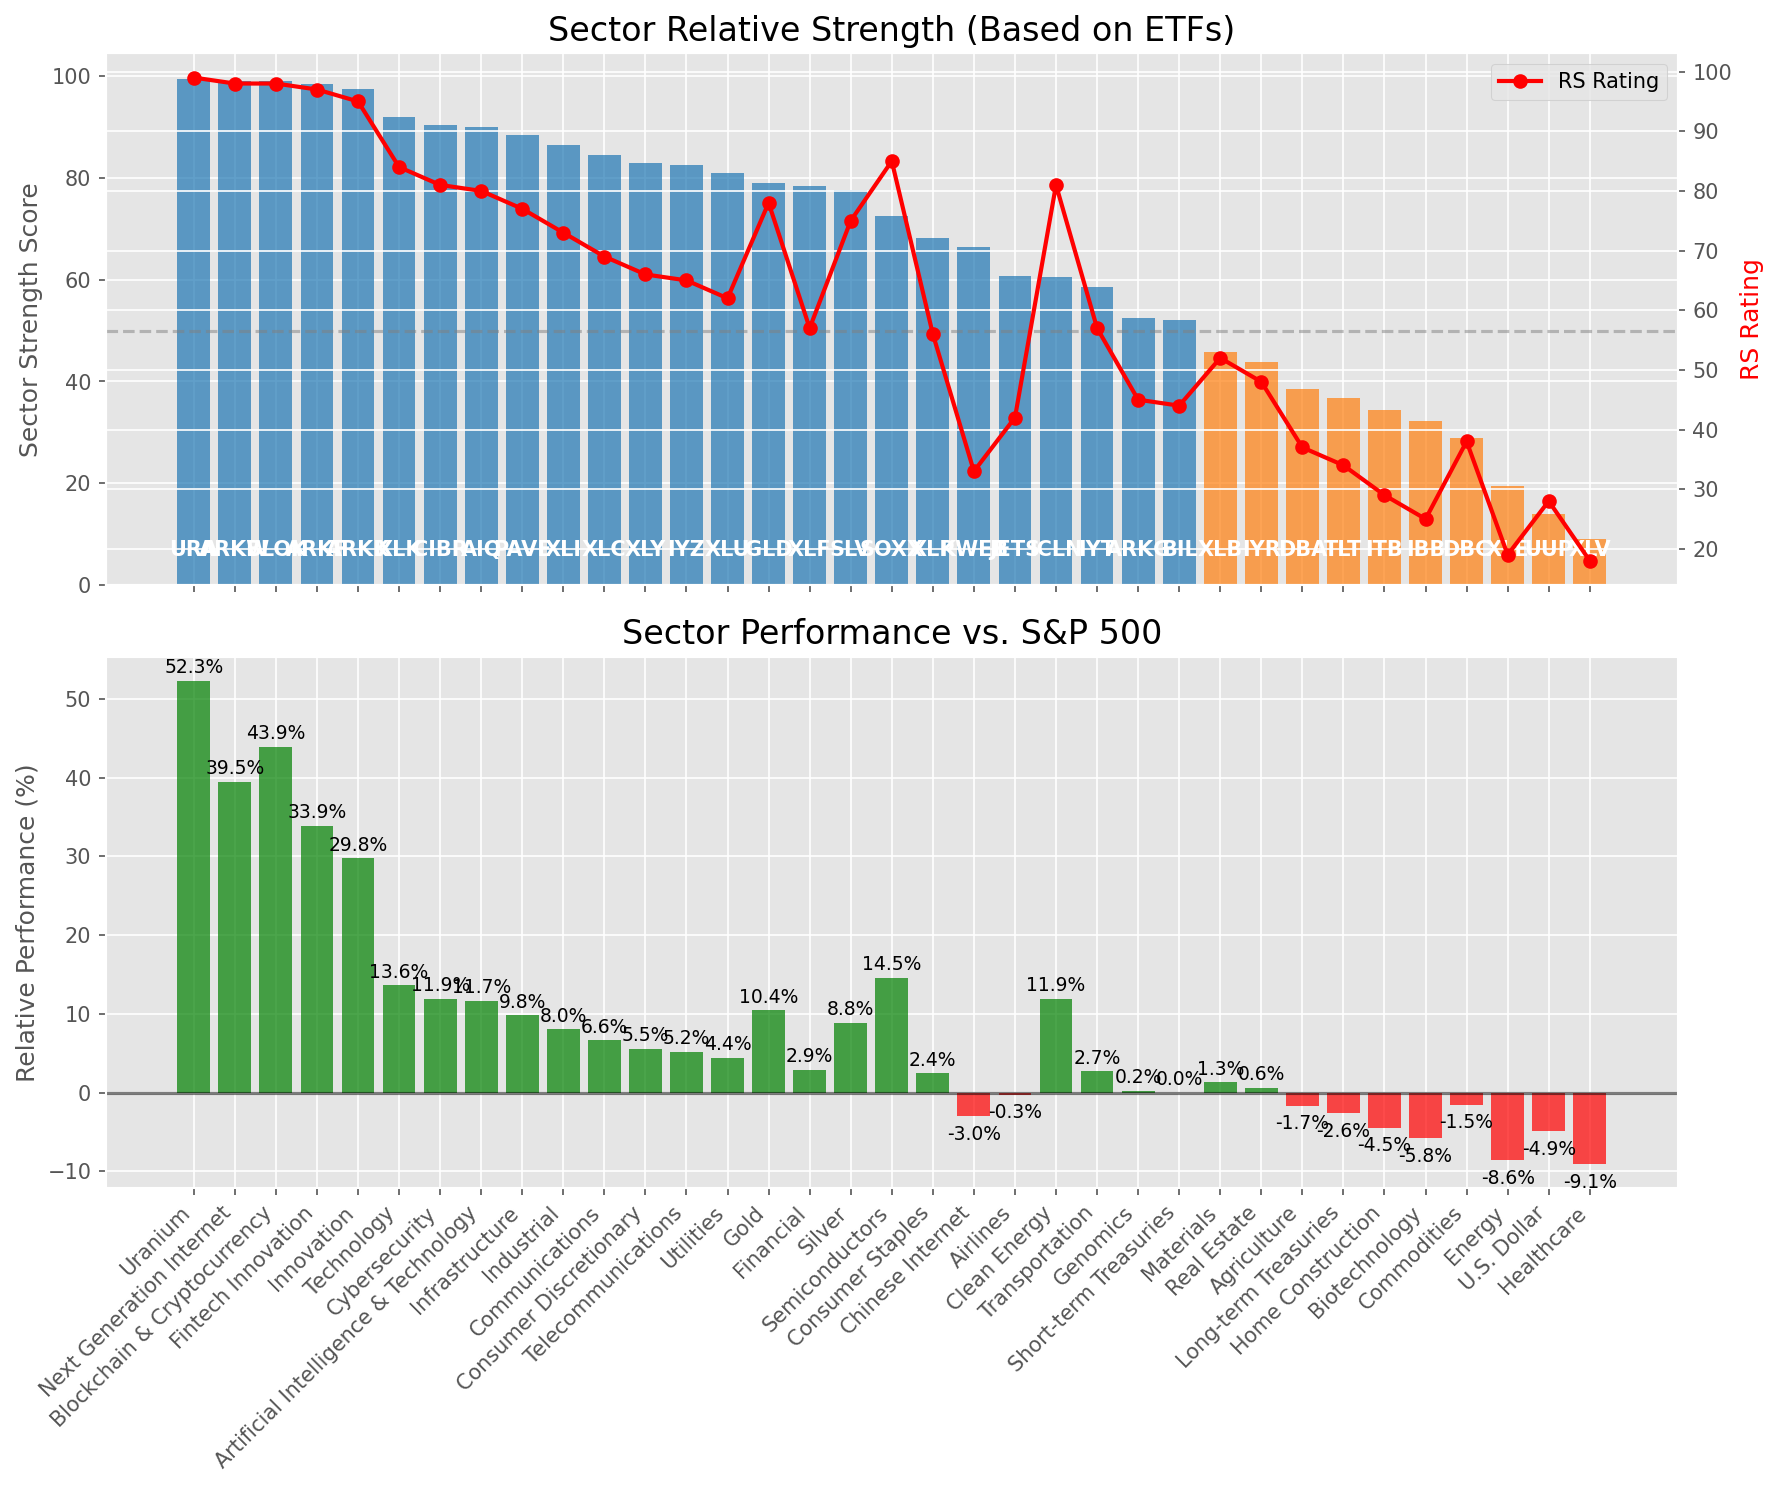
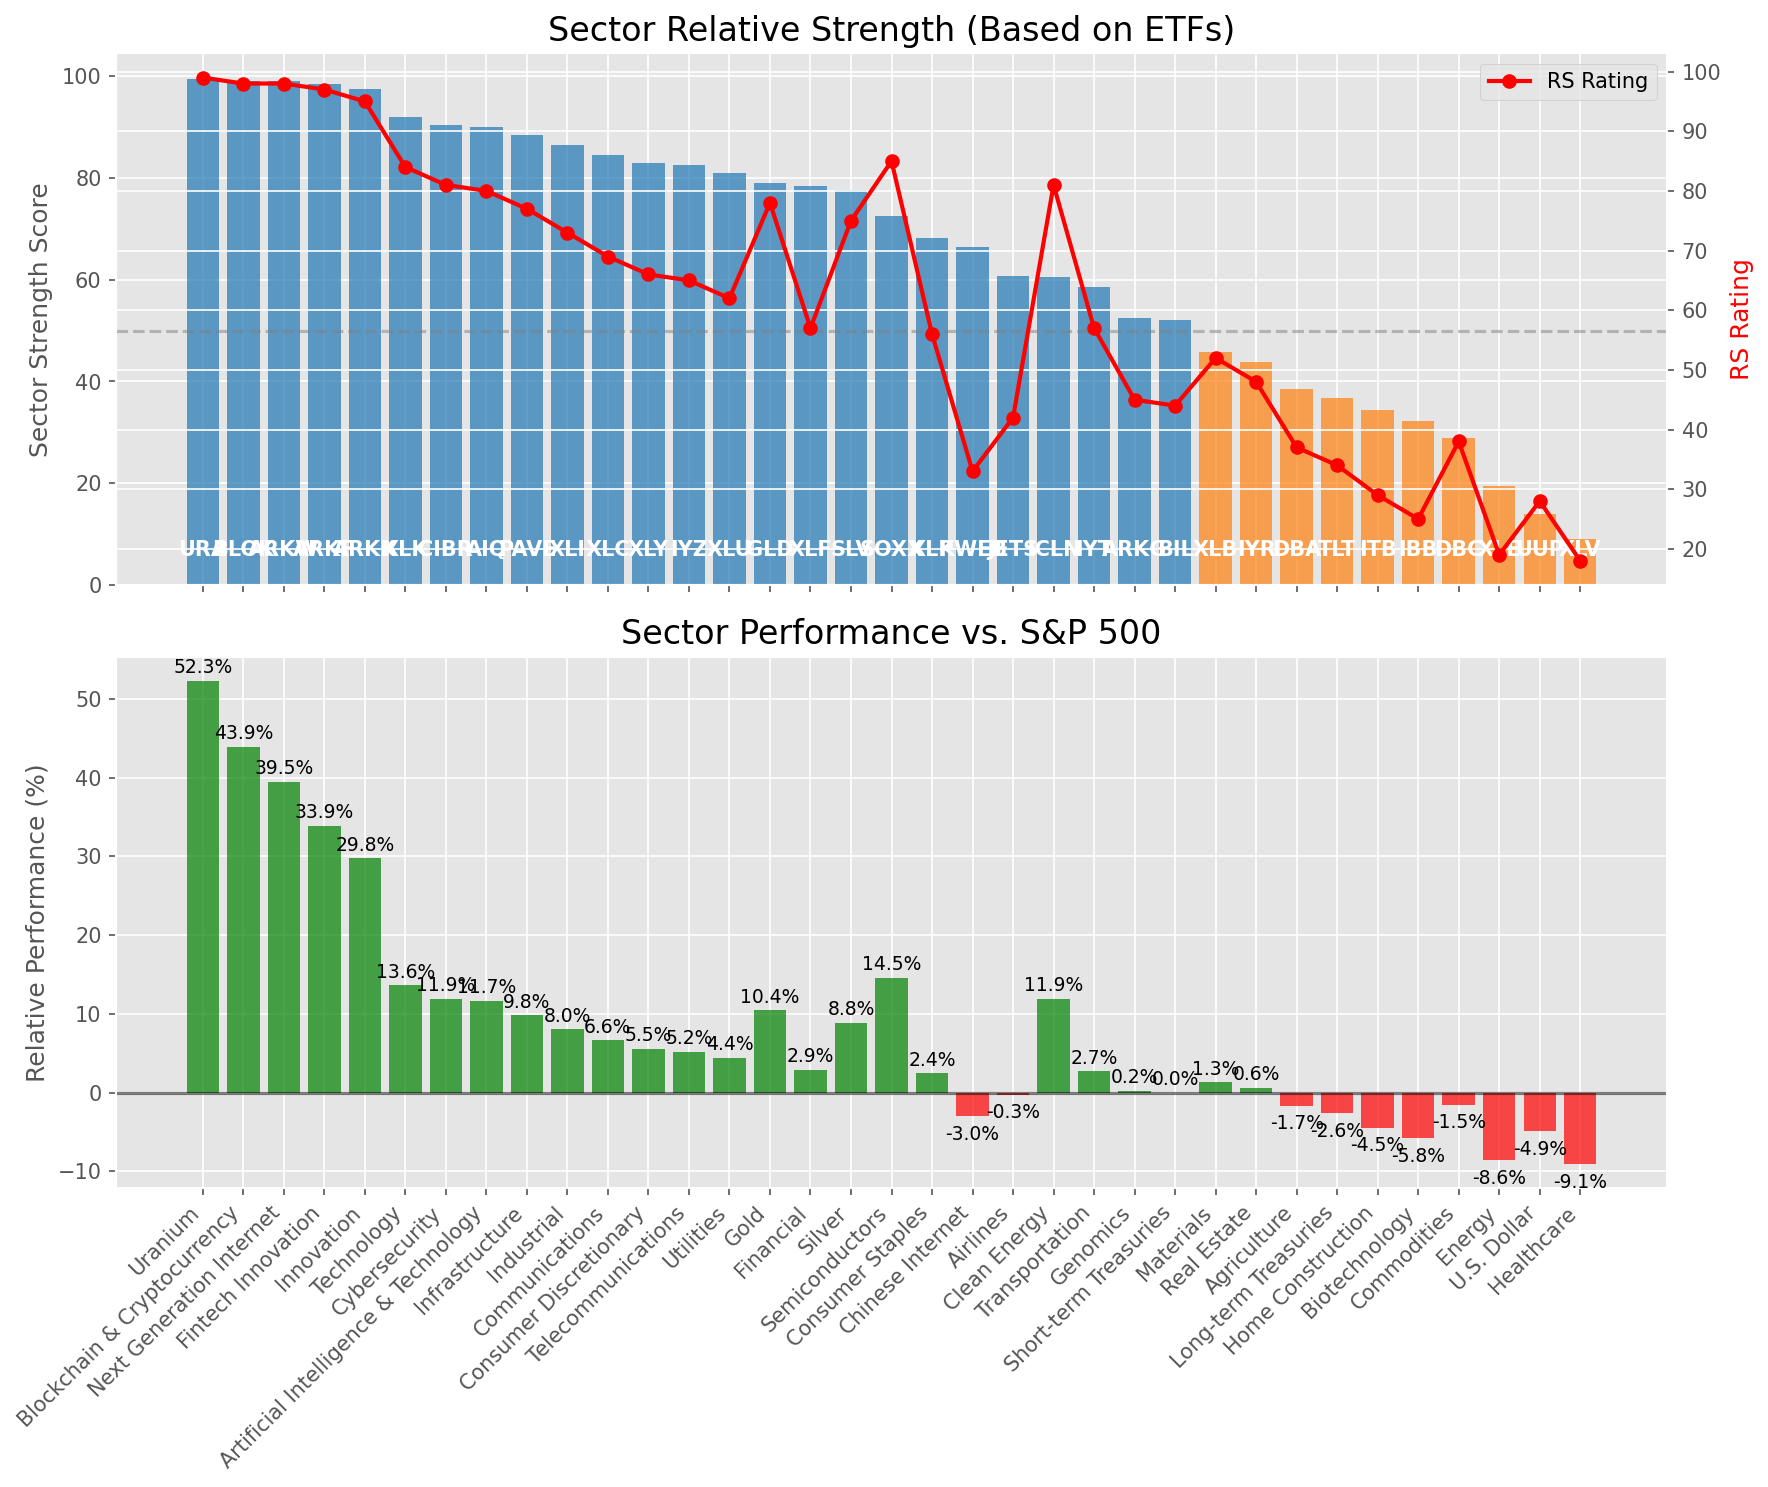
Add market report for 2025-06-24

diff --git a/oneil_relative_strength_report_2025-06-24.md b/oneil_relative_strength_report_2025-06-24.md
@@ -50,8 +50,8 @@ Based on William O'Neil's Relative Strength Methodology
 | ETF | Strength | RS Rating | Performance | Above Key MAs | Trend | Sector |
 |-----|----------|-----------|-------------|--------------|-------|--------|
 | [URA](https://www.tradingview.com/chart/?symbol=URA) | 99.5 | 99.0 | 52.30% | 10d ✓, 50d ✓, 200d ✓ | ↗ | Uranium |
-| [ARKW](https://www.tradingview.com/chart/?symbol=ARKW) | 99.0 | 98.0 | 39.51% | 10d ✓, 50d ✓, 200d ✓ | ↗ | Next Generation Internet |
 | [BLOK](https://www.tradingview.com/chart/?symbol=BLOK) | 99.0 | 98.0 | 43.91% | 10d ✓, 50d ✓, 200d ✓ | ↗ | Blockchain & Cryptocurrency |
+| [ARKW](https://www.tradingview.com/chart/?symbol=ARKW) | 99.0 | 98.0 | 39.51% | 10d ✓, 50d ✓, 200d ✓ | ↗ | Next Generation Internet |
 | [ARKF](https://www.tradingview.com/chart/?symbol=ARKF) | 98.5 | 97.0 | 33.91% | 10d ✓, 50d ✓, 200d ✓ | ↗ | Fintech Innovation |
 | [ARKK](https://www.tradingview.com/chart/?symbol=ARKK) | 97.5 | 95.0 | 29.75% | 10d ✓, 50d ✓, 200d ✓ | ↗ | Innovation |
 | [XLK](https://www.tradingview.com/chart/?symbol=XLK) | 92.0 | 84.0 | 13.61% | 10d ✓, 50d ✓, 200d ✓ | ↗ | Technology |
@@ -98,7 +98,7 @@ This table shows the relative strength metrics for different market sectors base
 
 ### **Current Sector Leadership**
 
-The current market leadership is coming from the following sectors: **Uranium, Next Generation Internet, Blockchain & Cryptocurrency**.
+The current market leadership is coming from the following sectors: **Uranium, Blockchain & Cryptocurrency, Next Generation Internet**.
 
 The **Uranium** sector (represented by **URA**) is showing particularly strong relative strength with an RS rating of 99.0 and performance of 52.30% vs. the S&P 500. This sector is trading above its 10-day, 50-day, 200-day moving average(s). Investors should consider focusing on high RS stocks within these leading sectors for potential outperformance.
 
